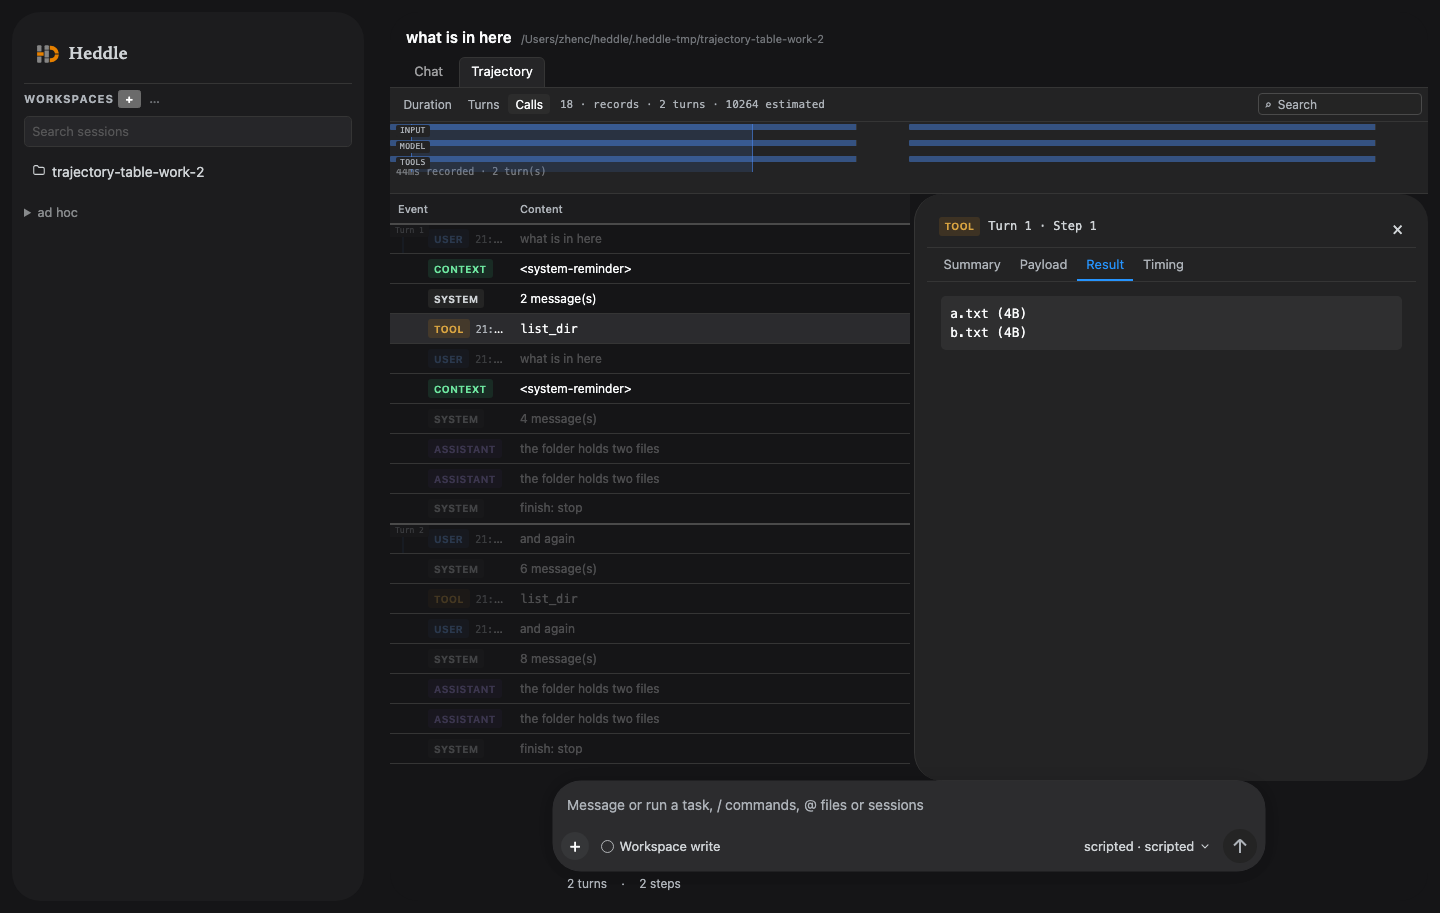
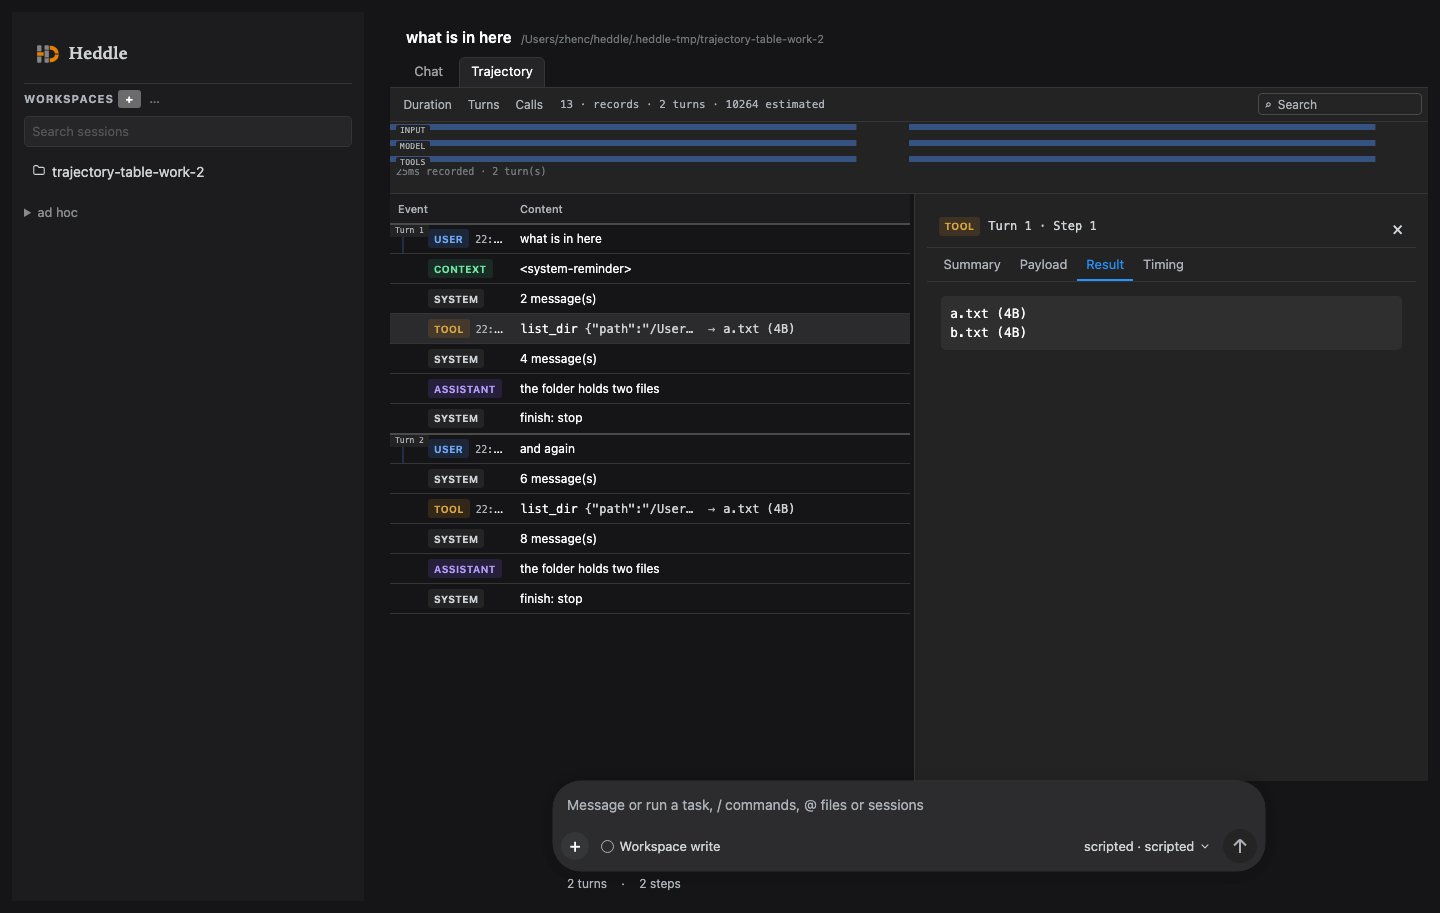
fix(style): panes are square again, and only the composer owns a radius
The owner saw rounded corners on the trajectory details pane and the left navigation and asked for them
to be flat, with the composer keeping its own rounding — and for the cause to be fixed rather than the
symptom, so the next rounded surface cannot leak into the layout.

The cause was a **default**: the composer's redesign introduced `--radius-panel: 28px` and applied it to
`aside` (the navigation) and `main` (the whole main pane), so every surface inside them inherited a
rounded frame. The composer card had already declared its own `border-radius: 28px` on `#composer-card`,
which is the shape that belongs to it — so the default was both unnecessary and wrong.

The fix removes `--radius-panel` and the two container radii: the panes are square by default, and a
rounded surface is declared on the element that *is* rounded (the composer card). A comment at the
`aside` rule states the principle, because the point is the default and not these two selectors.

Judged by computed styles in the part 9 Trajectory check, so the pattern is guarded rather than just
fixed: `aside`, `main` and `#tr-details` must compute to `0px`, and `#composer-card` must keep `28px`.
The evidence screenshot was regenerated after resetting the check's compact-calls and focus state, so it
shows the default shape — square panes, rounded composer, and (from the previous fix) one ASSISTANT row
per answer with the prompt only in its turn's first step.

diff --git a/src/server/page.html b/src/server/page.html
@@ -44,7 +44,6 @@
      * way DSH does is what makes a list row and a panel round by the same rule rather than by two guesses.
      */
     --radius-md: 12px;
-    --radius-panel: 28px;
     --radius-pill: 999px;
     --shadow-low: 0 1px 1px -1px #0003;
     --shadow-menu: 0 2px 8px -2px #0003;
@@ -114,7 +113,15 @@
   #search-results .hit-workspace { flex: none; font-size: .78rem; opacity: .55; }
   #session-search { width: 100%; margin: 0 0 .5rem; padding: .3rem .45rem; font: inherit; font-size: .8rem; color: inherit; background: color-mix(in oklab, currentColor 6%, transparent); border: 1px solid var(--line); border-radius: .3rem; }
   #session-search::placeholder { opacity: .6; }
-  aside { width: var(--sidebar-width); flex: none; overflow-y: auto; padding: .75rem; color: var(--text-2); background: var(--sidebar); border-radius: var(--radius-panel); }
+  /**
+   * The panes are **square by default**.
+   *
+   * The left navigation and the main area are layout, not surfaces: rounding them was inherited from the
+   * composer's redesign (`--radius-panel` was applied here as a default) and it rounded every pane, the
+   * trajectory details included. A rounded surface is declared on the element that *is* rounded — see
+   * `#composer-card`, which owns its 28px — so adding one later cannot leak into the layout.
+   */
+  aside { width: var(--sidebar-width); flex: none; overflow-y: auto; padding: .75rem; color: var(--text-2); background: var(--sidebar); }
   /**
    * The conversation column, shared by the transcript and the composer.
    *
@@ -124,7 +131,7 @@
    * layout sane before the script runs.
    */
   /** The conversation column, DSH's measured `max-width: 680px`. */
-  main { --chat-column: 680px; position: relative; flex: 1; display: flex; flex-direction: column; min-width: 0; background: var(--bg); border-radius: var(--radius-panel); overflow: hidden; }
+  main { --chat-column: 680px; position: relative; flex: 1; display: flex; flex-direction: column; min-width: 0; background: var(--bg); overflow: hidden; }
   /**
    * The divider borrows the sidebar's border so the drag target is where the line already is, and widens its
    * hit area into the content with a transparent border rather than by pushing the layout around.
@@ -4472,6 +4479,72 @@ async function startSessionAt(node) {
   await showSession(body.session)
   await renderTree()
 }
+
+/**
+ * The session shortcuts — DSH's own chords, read from its menu on 2026-10-17: `Alt+Meta+G` rename,
+ * `Shift+Meta+F` fork, `Alt+Meta+A` archive, and `Alt+Meta+K` to reach the search box.
+ *
+ * `Meta` is written as "meta or control" because the page runs on a Mac where the chord is ⌥⌘ and a keyboard that
+ * only has Control should still reach it. Each entry states its modifiers exactly: a chord with `shift` is not the
+ * same gesture as one without, and matching loosely would make `Shift+Alt+Meta+A` archive a session by accident.
+ */
+const SESSION_SHORTCUTS = [
+  { key: 'a', alt: true, action: 'archive' },
+  { key: 'g', alt: true, action: 'rename' },
+  { key: 'k', alt: true, action: 'search' },
+  { key: 'f', shift: true, action: 'fork' },
+]
+
+/**
+ * Which shortcut an event is, or `null` when it is none of them.
+ *
+ * A pure reading of the event rather than four `if`s in a handler: the chords are a table, and a table can be read
+ * back in a test or a bug report instead of being inferred from control flow.
+ */
+function shortcutFor(event) {
+  if (!event.metaKey && !event.ctrlKey) return null
+  for (const shortcut of SESSION_SHORTCUTS) {
+    if (String(event.key).toLowerCase() !== shortcut.key) continue
+    if (Boolean(shortcut.alt) !== event.altKey) continue
+    if (Boolean(shortcut.shift) !== event.shiftKey) continue
+    return shortcut.action
+  }
+  return null
+}
+
+/** The node of the row the panel is showing, which is what a shortcut acts on. */
+function selectedNode() {
+  if (selectedPath === null) return null
+  const entry = rowIndex.get(selectedPath)
+  return entry === undefined ? null : entry.node
+}
+
+/**
+ * One listener for the four chords, on the document so they work from anywhere on the page.
+ *
+ * A shortcut that needs a session says so when there is none rather than doing nothing: a key that silently does
+ * nothing is indistinguishable from a key that is not bound.
+ */
+document.addEventListener('keydown', (event) => {
+  const action = shortcutFor(event)
+  if (action === null) return
+  event.preventDefault()
+  if (action === 'search') {
+    const field = document.getElementById('session-search')
+    field.focus()
+    field.select()
+    return
+  }
+  const node = selectedNode()
+  if (node === null || node.kind !== 'session' || node.session === undefined || node.session === null) {
+    setNote('select a session first — the shortcut acts on the row the panel is showing')
+    return
+  }
+  setNote('')
+  if (action === 'archive') void archiveSession(node)
+  else if (action === 'fork') void forkSession(node)
+  else if (action === 'rename') void renameSession(node)
+})
 
 /** The `…` control: a button, and the one list it opens. */
 function menuButton(node, items) {
